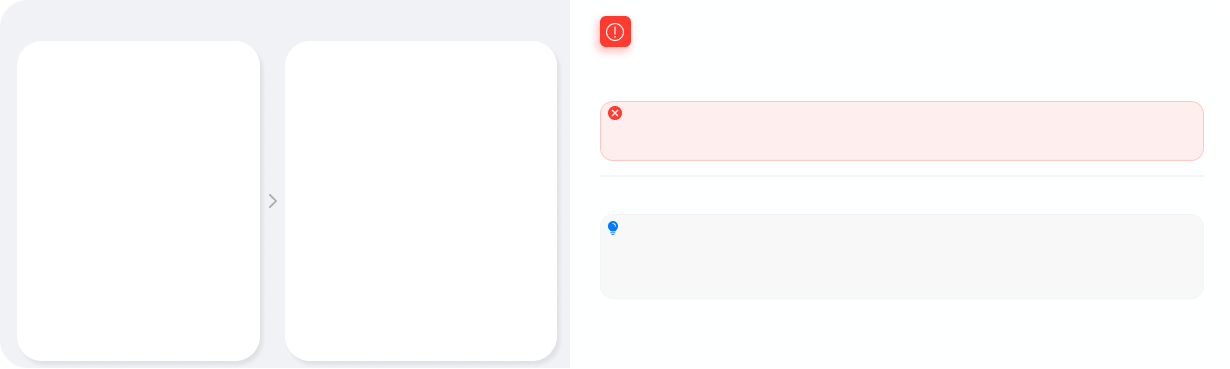
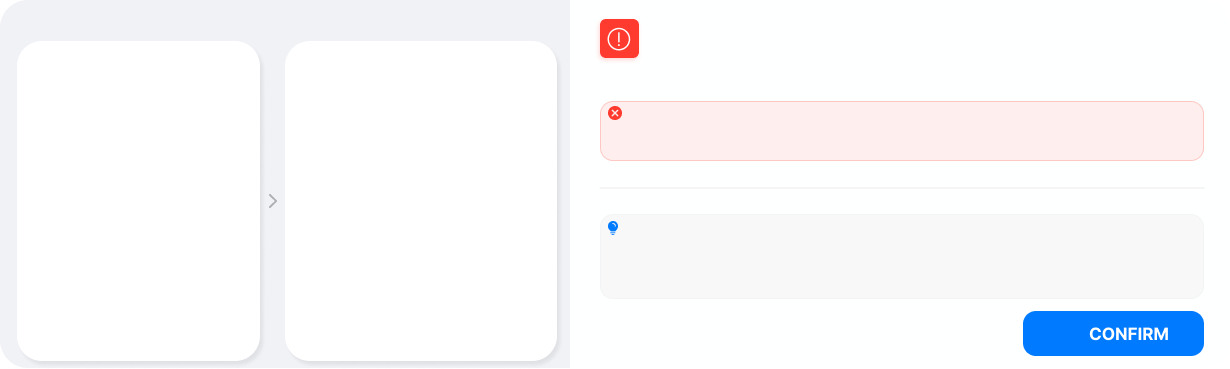
fix: 修改显示框文本显示格式和位置；修改时间获取

Changed region(s): [[0.8341, 0.8347, 0.9886, 0.9837], [0.4634, 0.0298, 0.5252, 0.1789]]

diff --git a/un260/lv_components/lv_fault_popup.c b/un260/lv_components/lv_fault_popup.c
@@ -30,6 +30,9 @@ static lv_obj_t* g_fault_main_desc_label = NULL;
 static lv_obj_t* g_fault_reason_label = NULL;
 static lv_obj_t* g_fault_solution_label = NULL;
 static lv_obj_t* g_fault_version_label = NULL;
+static lv_obj_t* g_solution_title = NULL;
+static lv_obj_t* g_reason_title = NULL;
+
 
 static fault_popup_data_t g_fault_popup_data;
 
@@ -86,20 +89,43 @@ static const char* g_runtime_solution_desc[0x100] = {
 static void get_time_str(char* buf, size_t size)
 {
     time_t now = time(NULL);
-    struct tm* tm_now = localtime(&now);
-
-    if (tm_now == NULL) {
+    struct tm tm_now;
+    struct tm* p = localtime_r(&now, &tm_now);
+    if (p == NULL) {
         snprintf(buf, size, "--:--:--");
         return;
     }
 
+    /*
+     * Prefer device time from Machine_para when available.
+     * Keep current localtime defaults if fields are out of range.
+     */
+    if (Machine_para.year > 0) {
+        tm_now.tm_year = (Machine_para.year >= 1900) ? (Machine_para.year - 1900) : Machine_para.year;
+    }
+    if (Machine_para.month >= 0 && Machine_para.month <= 11) {
+        tm_now.tm_mon = Machine_para.month;
+    }
+    if (Machine_para.day >= 1 && Machine_para.day <= 31) {
+        tm_now.tm_mday = Machine_para.day;
+    }
+    if (Machine_para.hour >= 0 && Machine_para.hour <= 23) {
+        tm_now.tm_hour = Machine_para.hour;
+    }
+    if (Machine_para.minute >= 0 && Machine_para.minute <= 59) {
+        tm_now.tm_min = Machine_para.minute;
+    }
+    if (Machine_para.second >= 0 && Machine_para.second <= 59) {
+        tm_now.tm_sec = Machine_para.second;
+    }
+
     snprintf(buf, size, "%04d-%02d-%02d %02d:%02d:%02d",
-             tm_now->tm_year + 1900,
-             tm_now->tm_mon + 1,
-             tm_now->tm_mday,
-             tm_now->tm_hour,
-             tm_now->tm_min,
-             tm_now->tm_sec);
+             tm_now.tm_year + 1900,
+             tm_now.tm_mon + 1,
+             tm_now.tm_mday,
+             tm_now.tm_hour,
+             tm_now.tm_min,
+             tm_now.tm_sec);
 }
 
 static const char* get_fault_machine_img(uint8_t code)
@@ -386,9 +412,9 @@ void show_fault_popup_ex(const fault_popup_data_t* data)
     /* 红框1 */
     g_fault_title_1 = lv_label_create(g_fault_popup);
     lv_label_set_text(g_fault_title_1, data->diagnostics_title);
-    lv_obj_set_style_text_color(g_fault_title_1, lv_color_hex(0xB0B3BB), 0);
-    lv_obj_set_style_text_font(g_fault_title_1, &lv_font_montserrat_16, 0);
-    lv_obj_set_pos(g_fault_title_1, 52, 20);
+    lv_obj_set_style_text_color(g_fault_title_1, lv_color_hex(0x7A7A7A), 0);
+    lv_obj_set_style_text_font(g_fault_title_1, &lv_font_montserrat_14, 0);
+    lv_obj_set_pos(g_fault_title_1, 25, 12);
 
     /* 红框2 */
     g_fault_title_2 = lv_label_create(g_fault_popup);
@@ -415,42 +441,38 @@ void show_fault_popup_ex(const fault_popup_data_t* data)
     lv_label_set_text(g_fault_main_desc_label, data->fault_main_desc);
     lv_obj_set_style_text_color(g_fault_main_desc_label, lv_color_black(), 0);
     lv_obj_set_style_text_font(g_fault_main_desc_label, &lv_font_montserrat_24, 0);
-    lv_obj_set_pos(g_fault_main_desc_label, 595, 78);
+    lv_obj_set_pos(g_fault_main_desc_label, 607, 66);
 
     /* 原因框 */
-    lv_obj_t* reason_box = create_info_box(
-        g_fault_popup, 595, 130, 720, 74,
-        lv_color_hex(0xFDEEEE), lv_color_hex(0xF3B7B7));
+    g_reason_title = lv_label_create(g_fault_popup);
+    lv_label_set_text(g_reason_title, "Reason");
+    lv_obj_set_width(g_reason_title, 100);
+    lv_obj_set_style_text_color(g_reason_title, lv_color_hex(0xff3b30), 0);
+    lv_obj_set_style_text_font(g_reason_title, &lv_font_montserrat_16, 0);
+    lv_obj_set_pos(g_reason_title, 629, 105);
 
-    g_fault_reason_label = lv_label_create(reason_box);
-    lv_label_set_text_fmt(g_fault_reason_label, "CAUSE: %s", data->reason_text);
+    g_fault_reason_label = lv_label_create(g_fault_popup);
+    lv_label_set_text_fmt(g_fault_reason_label, "%s", data->reason_text);
     lv_obj_set_width(g_fault_reason_label, 680);
     lv_label_set_long_mode(g_fault_reason_label, LV_LABEL_LONG_WRAP);
     lv_obj_set_style_text_color(g_fault_reason_label, lv_color_hex(0x555555), 0);
     lv_obj_set_style_text_font(g_fault_reason_label, &lv_font_montserrat_16, 0);
-    lv_obj_set_pos(g_fault_reason_label, 16, 20);
+    lv_obj_set_pos(g_fault_reason_label, 629, 128   );
 
-    /* 分割线 */
-    lv_obj_t* line = lv_obj_create(g_fault_popup);
-    lv_obj_set_size(line, 720, 1);
-    lv_obj_set_pos(line, 595, 224);
-    lv_obj_set_style_bg_color(line, lv_color_hex(0xE5E5E5), 0);
-    lv_obj_set_style_bg_opa(line, LV_OPA_COVER, 0);
-    lv_obj_set_style_border_width(line, 0, 0);
-    lv_obj_set_style_shadow_width(line, 0, 0);
+    g_solution_title = lv_label_create(g_fault_popup);
+    lv_label_set_text(g_solution_title, "Solution");
+    lv_obj_set_width(g_solution_title, 100);
+    lv_obj_set_style_text_color(g_solution_title, lv_color_hex(0x007aff), 0);
+    lv_obj_set_style_text_font(g_solution_title, &lv_font_montserrat_16, 0);
+    lv_obj_set_pos(g_solution_title, 629, 219);
 
-    /* 方案框 */
-    lv_obj_t* solution_box = create_info_box(
-        g_fault_popup, 595, 242, 720, 86,
-        lv_color_hex(0xF5F5F5), lv_color_hex(0xECECEC));
-
-    g_fault_solution_label = lv_label_create(solution_box);
-    lv_label_set_text_fmt(g_fault_solution_label, "SOLUTION: %s", data->solution_text);
+    g_fault_solution_label = lv_label_create(g_fault_popup);
+    lv_label_set_text_fmt(g_fault_solution_label, " %s", data->solution_text);
     lv_obj_set_width(g_fault_solution_label, 680);
     lv_label_set_long_mode(g_fault_solution_label, LV_LABEL_LONG_WRAP);
     lv_obj_set_style_text_color(g_fault_solution_label, lv_color_hex(0x555555), 0);
     lv_obj_set_style_text_font(g_fault_solution_label, &lv_font_montserrat_16, 0);
-    lv_obj_set_pos(g_fault_solution_label, 16, 24);
+    lv_obj_set_pos(g_fault_solution_label, 629, 243);
 
     /* 版本 */
     g_fault_version_label = lv_label_create(g_fault_popup);
@@ -461,8 +483,8 @@ void show_fault_popup_ex(const fault_popup_data_t* data)
 
     /* confirm */
     lv_obj_t* confirm_btn = lv_btn_create(g_fault_popup);
-    lv_obj_set_size(confirm_btn, 180, 58);
-    lv_obj_set_pos(confirm_btn, 1140, 304);
+    lv_obj_set_size(confirm_btn, 180, 45);
+    lv_obj_set_pos(confirm_btn, 1023, 311);
     lv_obj_set_style_radius(confirm_btn, 14, 0);
     lv_obj_set_style_bg_color(confirm_btn, lv_color_hex(0x1677FF), 0);
     lv_obj_set_style_border_width(confirm_btn, 0, 0);
